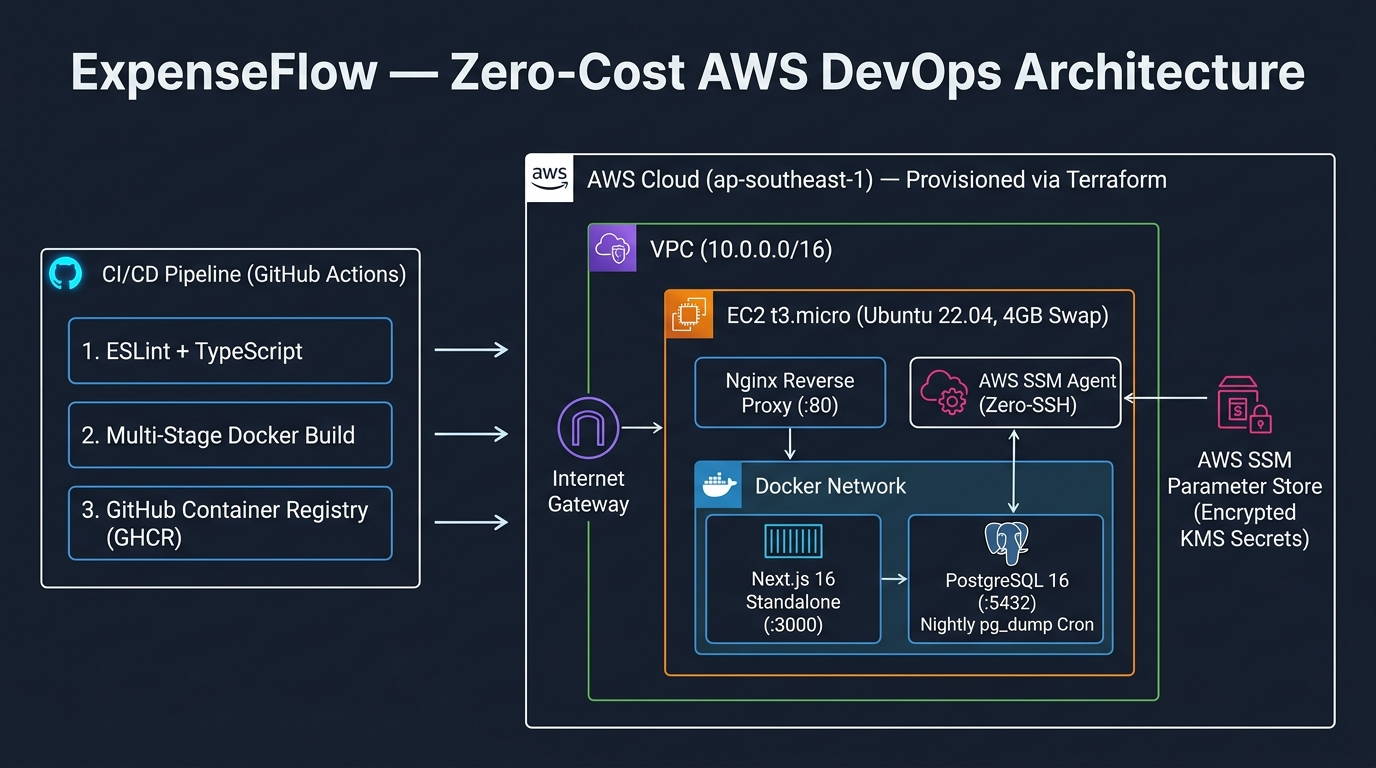
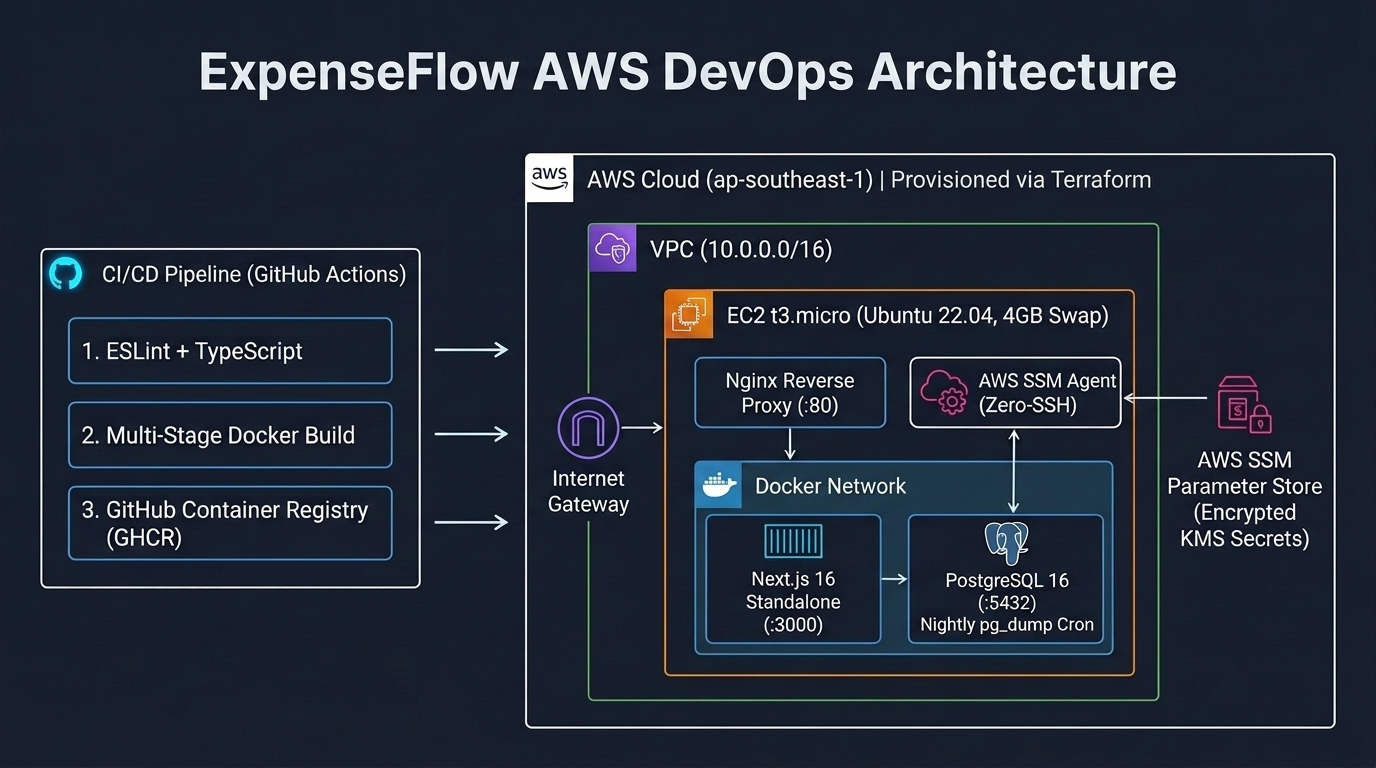
docs: update architecture and CI/CD diagram titles in README

Changed region(s): [[0.0312, 0.0625, 0.9688, 0.125], [0.625, 0.2188, 0.8438, 0.25]]

diff --git a/README.md b/README.md
@@ -1,6 +1,6 @@
-# 💸 ExpenseFlow — Cloud-Native Expense Tracker
+# 💸 ExpenseFlow: Cloud-Native Expense Tracker
 
-> Full-stack expense tracking platform with a **$0.00/month AWS Free Tier production architecture** — built to demonstrate Infrastructure as Code (Terraform), multi-stage Docker containerization, keyless AWS Systems Manager (SSM) orchestration, and automated GitHub Actions CI/CD.
+> Full-stack expense tracking platform with a **$0.00/month AWS Free Tier production architecture**, built to demonstrate Infrastructure as Code (Terraform), multi-stage Docker containerization, keyless AWS Systems Manager (SSM) orchestration, and automated GitHub Actions CI/CD.
 
 ![CI/CD](https://github.com/thilinagamage001/expense-flow-app/actions/workflows/deploy.yml/badge.svg)
 ![Terraform](https://img.shields.io/badge/Terraform-IaC-7B42BC?logo=terraform)
@@ -32,10 +32,10 @@
 
 From a **DevOps & Cloud Engineering** perspective, this project was architected end-to-end on **AWS (`ap-southeast-1`)** with a strict **Zero-Cost ($0.00/month) FinOps constraint**:
 
-- **100% Infrastructure as Code (Terraform)** — Automated provisioning of VPC, Subnets, Internet Gateway, Route Tables, Security Groups, IAM Roles, encrypted SSM Parameter Store secrets, and EC2 compute.
-- **Zero-SSH / Keyless Operations** — No port `22` exposed to the internet and no `.pem` keys stored in CI/CD. All deployments and shell sessions run through **AWS Systems Manager (SSM) Agent**.
-- **Immutable Container Delivery** — Multi-stage Docker builds compiled in GitHub Actions, pushed to **GitHub Container Registry (GHCR)**, and deployed onto EC2 via `/usr/local/bin/deploy.sh`.
-- **Self-Healing & Automated Backups** — Cloud-Init (`user_data`) bootstraps a 4 GB swapfile, Nginx reverse proxy, Docker Compose health checks, and a nightly `pg_dump` cron job with 7-day retention.
+- **100% Infrastructure as Code (Terraform):** Automated provisioning of VPC, Subnets, Internet Gateway, Route Tables, Security Groups, IAM Roles, encrypted SSM Parameter Store secrets, and EC2 compute.
+- **Zero-SSH / Keyless Operations:** No port `22` exposed to the internet and no `.pem` keys stored in CI/CD. All deployments and shell sessions run through **AWS Systems Manager (SSM) Agent**.
+- **Immutable Container Delivery:** Multi-stage Docker builds compiled in GitHub Actions, pushed to **GitHub Container Registry (GHCR)**, and deployed onto EC2 via `/usr/local/bin/deploy.sh`.
+- **Self-Healing & Automated Backups:** Cloud-Init (`user_data`) bootstraps a 4 GB swapfile, Nginx reverse proxy, Docker Compose health checks, and a nightly `pg_dump` cron job with 7-day retention.
 
 ---
 
@@ -45,7 +45,7 @@ From a **DevOps & Cloud Engineering** perspective, this project was architected 
 
 | Layer | Technology |
 |-------|-----------|
-| Cloud Provider | AWS (`ap-southeast-1` — Singapore) |
+| Cloud Provider | AWS (`ap-southeast-1`, Singapore) |
 | Infrastructure as Code | Terraform (`~> 5.0` AWS Provider) |
 | Containerization | Docker (Multi-Stage Standalone Build) + Docker Compose v2 |
 | Container Registry | GitHub Container Registry (`ghcr.io`) |
